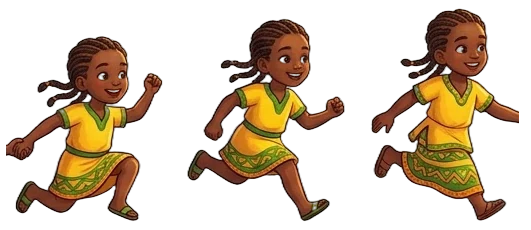
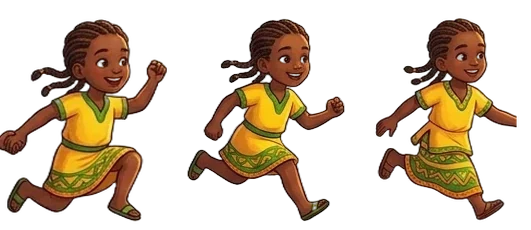
Smooth Emmu and Eldana run cycles: matching frame heights, back-and-forth loop
Claude-Session: https://claude.ai/code/session_01PNn9FLCK7hGhbBXagcyAsH

Changed region(s): [[0.0, 0.0609, 0.3315, 0.9739], [0.693, 0.0304, 0.9944, 0.9739]]

diff --git a/index.html b/index.html
@@ -276,7 +276,7 @@ body.rot #rotate{display:flex}
 
 <script>
 (()=>{
-const META={"kalkidan":{"run":{"src":"kalkidan_run.webp","fw":231,"fh":308,"n":10,"chest":[[149.0,113],[145.4,113],[146.5,113],[144.8,113],[145.0,115],[149.4,113],[146.7,113],[149.9,113],[147.1,112],[147.2,113]],"foot":302,"face":[[[167.2,49.7,17.8]],[[167.2,49.7,17.8]],[[169.2,49.7,17.8]],[[168.2,49.7,17.8]],[[167.3,51.5,17.7]],[[169.3,50.6,17.7]],[[167.1,49.9,17.9]],[[167.2,49.7,17.8]],[[167.1,48.0,17.9]],[[166.2,49.7,17.8]]]},"jump":{"src":"kalkidan_jump.webp","fw":241,"fh":307,"n":1,"chest":[[124.2,118]],"foot":301,"face":[[[213.1,48.0,17.9]]]},"slide":{"src":"kalkidan_slide.webp","fw":343,"fh":224,"n":1,"chest":[[196.1,112]],"foot":218}},"nahome":{"run":{"src":"nahome_run.webp","fw":200,"fh":279,"n":4,"chest":[[118.9,144],[118.9,145],[113.5,144],[116.6,146]],"foot":273,"face":[[[135.9,83.1,16.1],[112.1,28.5,15.1]],[[135.9,84.8,16.1],[113.6,30.4,15.0]],[[134.9,83.1,16.1],[112.9,28.5,15.1]],[[140.0,84.5,16.0],[111.2,30.3,15.0]]]},"jump":{"src":"nahome_jump.webp","fw":139,"fh":279,"n":3,"chest":[[78.5,139],[76.5,153],[77.7,152]],"foot":273,"face":[[[101.9,83.1,16.1],[79.5,28.5,15.1]],[[105.6,102.4,14.4],[74.0,53.5,13.5]],[[106.5,101.7,14.5],[76.1,52.5,13.6]]]}},"kiru":{"run":{"src":"kiru_run.webp","fw":201,"fh":244,"n":4,"chest":[[117.2,83],[118.4,85],[112.3,80],[116.1,83]],"foot":238,"face":[[[131.0,36.0,18.0]],[[133.0,37.9,18.0]],[[136.6,31.5,18.4]],[[130.8,35.2,18.2]]]},"jump":{"src":"kiru_jump.webp","fw":142,"fh":234,"n":3,"chest":[[80.1,79],[78.7,104],[82.5,86]],"foot":228,"face":[[[111.3,30.6,17.7]],[[117.5,64.7,14.5]],[[110.2,39.5,16.8]]]}},"bethani":{"run":{"src":"bethani_run.webp","fw":175,"fh":225,"n":5,"chest":[[106.9,95],[107.8,95],[104.8,90],[106.4,90],[107.6,86]],"foot":219,"face":[[[119.5,43.3,15.5]],[[118.5,43.3,15.5]],[[116.0,38.0,16.0]],[[118.0,38.0,16.0]],[[118.5,32.7,16.5]]]},"jump":{"src":"bethani_jump.webp","fw":182,"fh":245,"n":3,"chest":[[89.3,103],[80.1,89],[90.9,101]],"foot":239,"face":[[[105.7,54.5,16.3]],[[96.9,35.0,18.1]],[[105.3,51.0,16.7]]]}},"emmu":{"run":{"src":"emmu_run.webp","fw":177,"fh":230,"n":3,"chest":[[99.4,113],[97.4,103],[95.6,97]],"foot":224,"face":[[[111.8,59.9,16.2]],[[115.3,45.1,17.7]],[[113.4,36.4,18.6]]]}},"eldana":{"run":{"src":"eldana_run.webp","fw":177,"fh":230,"n":3,"chest":[[99.4,113],[97.4,103],[95.6,97]],"foot":224,"face":[[[111.8,59.9,16.2]],[[115.3,45.1,17.7]],[[113.4,36.4,18.6]]]}},"afomia":{"run":{"src":"afomia_run.webp","fw":154,"fh":219,"n":3,"chest":[[91.7,92],[91.7,100],[82.9,94]],"foot":213,"face":[[[101.0,43.0,18.0]],[[105.2,53.8,16.8]],[[104.2,44.7,17.8]]]},"wave":{"src":"afomia_wave.webp","fw":153,"fh":239,"n":1,"chest":[[77.6,101]],"foot":233}},"tukul":{"src":"tukul.webp","w":531,"h":436},"gashe":{"src":"gashe.webp","w":165,"h":331},"emaye":{"src":"emaye.webp","w":164,"h":310},"wave_pair":{"src":"wave_pair.webp","w":239,"h":231},"wave_pink":{"src":"wave_pink.webp","w":131,"h":203},"jebena":{"src":"jebena.webp","w":291,"h":345},"mesob":{"src":"mesob.webp","w":267,"h":248},"rock":{"src":"rock.webp","w":336,"h":177},"bean":{"src":"bean.webp","w":64,"h":72},"pw_speed":{"src":"pw_speed.webp","w":160,"h":160},"pw_magnet":{"src":"pw_magnet.webp","w":160,"h":160},"pw_double":{"src":"pw_double.webp","w":160,"h":160},"pw_dash":{"src":"pw_dash.webp","w":160,"h":160},"bg":{"mountains":[2752,254],"hills":[2752,257],"ground":[2752,204],"tibeb":[688,48]}};
+const META={"kalkidan":{"run":{"src":"kalkidan_run.webp","fw":231,"fh":308,"n":10,"chest":[[149.0,113],[145.4,113],[146.5,113],[144.8,113],[145.0,115],[149.4,113],[146.7,113],[149.9,113],[147.1,112],[147.2,113]],"foot":302,"face":[[[167.2,49.7,17.8]],[[167.2,49.7,17.8]],[[169.2,49.7,17.8]],[[168.2,49.7,17.8]],[[167.3,51.5,17.7]],[[169.3,50.6,17.7]],[[167.1,49.9,17.9]],[[167.2,49.7,17.8]],[[167.1,48.0,17.9]],[[166.2,49.7,17.8]]]},"jump":{"src":"kalkidan_jump.webp","fw":241,"fh":307,"n":1,"chest":[[124.2,118]],"foot":301,"face":[[[213.1,48.0,17.9]]]},"slide":{"src":"kalkidan_slide.webp","fw":343,"fh":224,"n":1,"chest":[[196.1,112]],"foot":218}},"nahome":{"run":{"src":"nahome_run.webp","fw":200,"fh":279,"n":4,"chest":[[118.9,144],[118.9,145],[113.5,144],[116.6,146]],"foot":273,"face":[[[135.9,83.1,16.1],[112.1,28.5,15.1]],[[135.9,84.8,16.1],[113.6,30.4,15.0]],[[134.9,83.1,16.1],[112.9,28.5,15.1]],[[140.0,84.5,16.0],[111.2,30.3,15.0]]]},"jump":{"src":"nahome_jump.webp","fw":139,"fh":279,"n":3,"chest":[[78.5,139],[76.5,153],[77.7,152]],"foot":273,"face":[[[101.9,83.1,16.1],[79.5,28.5,15.1]],[[105.6,102.4,14.4],[74.0,53.5,13.5]],[[106.5,101.7,14.5],[76.1,52.5,13.6]]]}},"kiru":{"run":{"src":"kiru_run.webp","fw":201,"fh":244,"n":4,"chest":[[117.2,83],[118.4,85],[112.3,80],[116.1,83]],"foot":238,"face":[[[131.0,36.0,18.0]],[[133.0,37.9,18.0]],[[136.6,31.5,18.4]],[[130.8,35.2,18.2]]]},"jump":{"src":"kiru_jump.webp","fw":142,"fh":234,"n":3,"chest":[[80.1,79],[78.7,104],[82.5,86]],"foot":228,"face":[[[111.3,30.6,17.7]],[[117.5,64.7,14.5]],[[110.2,39.5,16.8]]]}},"bethani":{"run":{"src":"bethani_run.webp","fw":175,"fh":225,"n":5,"chest":[[106.9,95],[107.8,95],[104.8,90],[106.4,90],[107.6,86]],"foot":219,"face":[[[119.5,43.3,15.5]],[[118.5,43.3,15.5]],[[116.0,38.0,16.0]],[[118.0,38.0,16.0]],[[118.5,32.7,16.5]]]},"jump":{"src":"bethani_jump.webp","fw":182,"fh":245,"n":3,"chest":[[89.3,103],[80.1,89],[90.9,101]],"foot":239,"face":[[[105.7,54.5,16.3]],[[96.9,35.0,18.1]],[[105.3,51.0,16.7]]]}},"emmu":{"run":{"src":"emmu_run.webp","fw":177,"fh":230,"n":3,"chest":[[98.3,103.0],[97.4,103.0],[96.4,102.9]],"foot":224,"face":[[[111.8,45.1,17.7]],[[115.3,45.1,17.7]],[[113.4,45.1,17.7]]]}},"eldana":{"run":{"src":"eldana_run.webp","fw":177,"fh":230,"n":3,"chest":[[98.3,103.0],[97.4,103.0],[96.4,102.9]],"foot":224,"face":[[[111.8,45.1,17.7]],[[115.3,45.1,17.7]],[[113.4,45.1,17.7]]]}},"afomia":{"run":{"src":"afomia_run.webp","fw":154,"fh":219,"n":3,"chest":[[91.7,92],[91.7,100],[82.9,94]],"foot":213,"face":[[[101.0,43.0,18.0]],[[105.2,53.8,16.8]],[[104.2,44.7,17.8]]]},"wave":{"src":"afomia_wave.webp","fw":153,"fh":239,"n":1,"chest":[[77.6,101]],"foot":233}},"tukul":{"src":"tukul.webp","w":531,"h":436},"gashe":{"src":"gashe.webp","w":165,"h":331},"emaye":{"src":"emaye.webp","w":164,"h":310},"wave_pair":{"src":"wave_pair.webp","w":239,"h":231},"wave_pink":{"src":"wave_pink.webp","w":131,"h":203},"jebena":{"src":"jebena.webp","w":291,"h":345},"mesob":{"src":"mesob.webp","w":267,"h":248},"rock":{"src":"rock.webp","w":336,"h":177},"bean":{"src":"bean.webp","w":64,"h":72},"pw_speed":{"src":"pw_speed.webp","w":160,"h":160},"pw_magnet":{"src":"pw_magnet.webp","w":160,"h":160},"pw_double":{"src":"pw_double.webp","w":160,"h":160},"pw_dash":{"src":"pw_dash.webp","w":160,"h":160},"bg":{"mountains":[2752,254],"hills":[2752,257],"ground":[2752,204],"tibeb":[688,48]}};
 const $=id=>document.getElementById(id);
 const store={get(k){try{return localStorage.getItem(k)}catch(e){return null}},set(k,v){try{localStorage.setItem(k,v);return true}catch(e){return false}},del(k){try{localStorage.removeItem(k)}catch(e){}}};
 
@@ -347,7 +347,7 @@ function drawBg(scroll){const g=ctx.createLinearGradient(0,0,0,H);g.addColorStop
 // draw a cousin (feet at x,y). Returns nothing.
 function figH(key){return (META[key].run.foot-6)}
 function drawKid(key,anim,frame,x,y,dispH,opt={}){const sh=SHEET[key+'_'+anim]||SHEET[key+'_run'];if(!sh)return;const m=sh.m;const s=dispH*(opt.scale||1)/figH(key);
-  const f=((frame%m.n)+m.n)%m.n;const w=m.fw*s,h=m.fh*s;const dx=x-w*.5,dy=y-m.foot*s;
+  const f=(anim==='run'&&m.n===3)?[0,1,2,1][((frame%4)+4)%4]:((frame%m.n)+m.n)%m.n;const w=m.fw*s,h=m.fh*s;const dx=x-w*.5,dy=y-m.foot*s;
   ctx.save();if(opt.alpha!=null)ctx.globalAlpha=opt.alpha;if(opt.rot||opt.flip){ctx.translate(x,y);if(opt.rot)ctx.rotate(opt.rot);if(opt.flip)ctx.scale(-1,1);ctx.translate(-x,-y);}
   ctx.drawImage(sh.c,f*m.fw,0,m.fw,m.fh,dx,dy,w,h);
   const faceIds=key==='nahome'?['nahome','meba']:[key];const fl=m.face&&m.face[f];
@@ -551,7 +551,7 @@ function drawLineup(){const c=$('lineup');if(!c||!SHEET.kalkidan_run)return;cons
 // ---------- team & faces ----------
 let cropFor=null,cropImg=null,cz=1,cx0=0,cy0=0;
 function paintMate(c,key,f){const x=c.getContext('2d');x.setTransform(2,0,0,2,0,0);x.clearRect(0,0,120,140);
-  const src=key==='meba'?'nahome':key;const sh=SHEET[src+'_run'];if(!sh)return;const m=sh.m;const nf=src==='kalkidan'?6:m.n;f=((f%nf)+nf)%nf;
+  const src=key==='meba'?'nahome':key;const sh=SHEET[src+'_run'];if(!sh)return;const m=sh.m;const nf=src==='kalkidan'?6:m.n;f=nf===3?[0,1,2,1][((f%4)+4)%4]:((f%nf)+nf)%nf;
   let s=132/figH(src);if(key==='meba'){s=300/figH(src);}
   const w=m.fw*s,h=m.fh*s;let dx=60-w/2,dy=136-m.foot*s;if(key==='meba'){dy=6-m.face[0][1][1]*s+40;dx=60-m.face[0][1][0]*s;}
   x.drawImage(sh.c,f*m.fw,0,m.fw,m.fh,dx,dy,w,h);

diff --git a/tools/template.html b/tools/template.html
@@ -326,7 +326,7 @@ function drawBg(scroll){const g=ctx.createLinearGradient(0,0,0,H);g.addColorStop
 // draw a cousin (feet at x,y). Returns nothing.
 function figH(key){return (META[key].run.foot-6)}
 function drawKid(key,anim,frame,x,y,dispH,opt={}){const sh=SHEET[key+'_'+anim]||SHEET[key+'_run'];if(!sh)return;const m=sh.m;const s=dispH*(opt.scale||1)/figH(key);
-  const f=((frame%m.n)+m.n)%m.n;const w=m.fw*s,h=m.fh*s;const dx=x-w*.5,dy=y-m.foot*s;
+  const f=(anim==='run'&&m.n===3)?[0,1,2,1][((frame%4)+4)%4]:((frame%m.n)+m.n)%m.n;const w=m.fw*s,h=m.fh*s;const dx=x-w*.5,dy=y-m.foot*s;
   ctx.save();if(opt.alpha!=null)ctx.globalAlpha=opt.alpha;if(opt.rot||opt.flip){ctx.translate(x,y);if(opt.rot)ctx.rotate(opt.rot);if(opt.flip)ctx.scale(-1,1);ctx.translate(-x,-y);}
   ctx.drawImage(sh.c,f*m.fw,0,m.fw,m.fh,dx,dy,w,h);
   const faceIds=key==='nahome'?['nahome','meba']:[key];const fl=m.face&&m.face[f];
@@ -530,7 +530,7 @@ function drawLineup(){const c=$('lineup');if(!c||!SHEET.kalkidan_run)return;cons
 // ---------- team & faces ----------
 let cropFor=null,cropImg=null,cz=1,cx0=0,cy0=0;
 function paintMate(c,key,f){const x=c.getContext('2d');x.setTransform(2,0,0,2,0,0);x.clearRect(0,0,120,140);
-  const src=key==='meba'?'nahome':key;const sh=SHEET[src+'_run'];if(!sh)return;const m=sh.m;const nf=src==='kalkidan'?6:m.n;f=((f%nf)+nf)%nf;
+  const src=key==='meba'?'nahome':key;const sh=SHEET[src+'_run'];if(!sh)return;const m=sh.m;const nf=src==='kalkidan'?6:m.n;f=nf===3?[0,1,2,1][((f%4)+4)%4]:((f%nf)+nf)%nf;
   let s=132/figH(src);if(key==='meba'){s=300/figH(src);}
   const w=m.fw*s,h=m.fh*s;let dx=60-w/2,dy=136-m.foot*s;if(key==='meba'){dy=6-m.face[0][1][1]*s+40;dx=60-m.face[0][1][0]*s;}
   x.drawImage(sh.c,f*m.fw,0,m.fw,m.fh,dx,dy,w,h);
